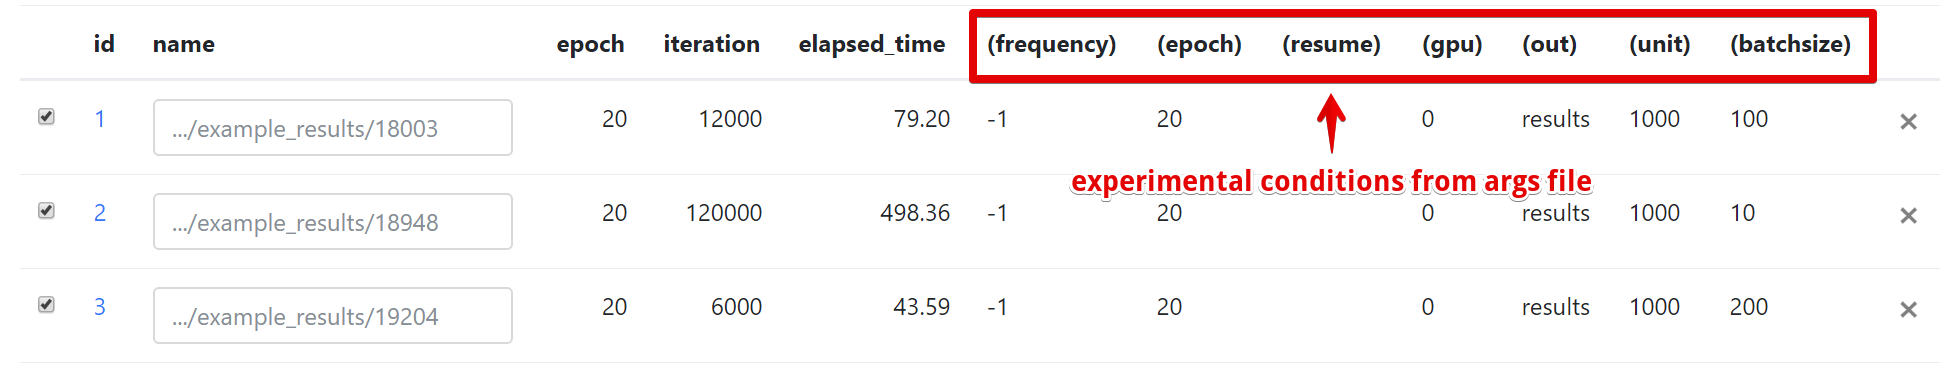
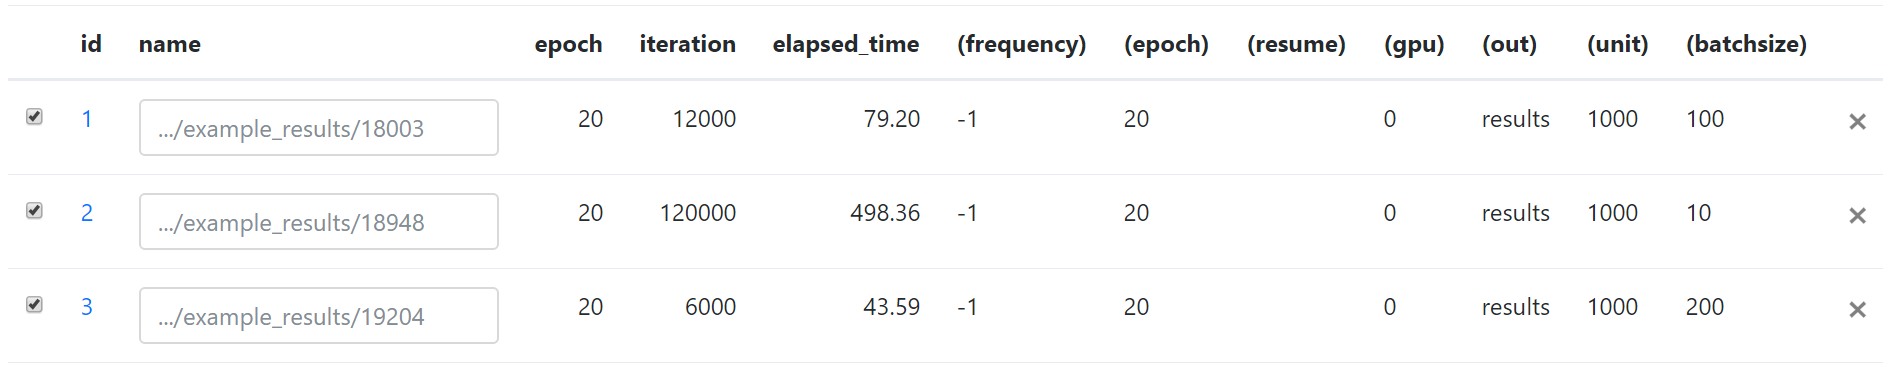
modify trainer example

diff --git a/docs/source/getstart.rst b/docs/source/getstart.rst
@@ -74,9 +74,33 @@ ChainerUI basically supports `Trainer module <https://docs.chainer.org/en/stable
 Training log
 ~~~~~~~~~~~~
 
-A JSON file created by `LogReport <https://docs.chainer.org/en/v3/reference/generated/chainer.training.extensions.LogReport.html>`__ extension. ``epoch``, ``iteration`` or ``elapsed_time`` is used as X-axis, and other key-value items are used as Y-axis. ChainerUI monitors ``log`` files continuously and update a chart if the ``log`` file is updated.
+.. image:: ../images/chart_with_y_sample.png
 
-``log`` file and chart example::
+ChainerUI plots training log values read from ``log`` files and shows ``log`` as a training job. ``log`` file is a JSON file created by `LogReport <https://docs.chainer.org/en/v3/reference/generated/chainer.training.extensions.LogReport.html>`__ extension, registered automatically created under the project path. If ``log`` files once registered are updated, the chart and results table are also updated continuously.
+
+* ``epoch``, ``iteration`` or ``elapsed_time`` is used as X-axis, selected on ``xAxis`` pane. These parameters are set 
+* The other key-value items are plotted.
+
+Setup example, a brief extract taken from `MNIST example <https://github.com/chainer/chainerui/blob/master/examples/train_mnist.py>`__:
+
+.. code-block:: python
+
+  import chainer.links as L
+  from chainer import training
+  from chainer.training import extensions
+
+  def main():
+      # Classifier reports softmax cross entropy loss and accuracy at every
+      # iteration
+      # [ChainerUI] plot loss and accuracy reported by this link
+      model = L.Classifier(MLP(args.unit, 10))
+
+      trainer = training.Trainer(updater, (args.epoch, 'epoch'), out=args.out)
+
+      # [ChainerUI] read 'log' file for plotting values
+      trainer.extend(extensions.LogReport())
+
+created ``log`` file example::
 
   [
       {
@@ -100,14 +124,14 @@ A JSON file created by `LogReport <https://docs.chainer.org/en/v3/reference/gene
       ...
   ]
 
-.. image:: ../images/chart_with_y_sample.png
-
 Experimental conditions
 ~~~~~~~~~~~~~~~~~~~~~~~
 
-A JSON file, which includes key-value pairs you want to see on ChainerUI along with logs. See :ref:`save_args <module_save_args>`, util function to dump command line arguments or dictionary to ``args`` file.
+.. image:: ../images/result_table_condition_sample.png
 
-Setup example:
+ChainerUI shows training job with experimental conditions read from ``args`` file. ``args`` file is a JSON file, which includes key-value pairs. See :ref:`save_args <module_save_args>`, util function to dump command line arguments or dictionary to ``args`` file.
+
+Setup example, a brief extract taken from `MNIST example <https://github.com/chainer/chainerui/blob/master/examples/train_mnist.py>`__:
 
 .. code-block:: python
 
@@ -122,7 +146,7 @@ Setup example:
       # [ChainerUI] save 'args' to show experimental conditions
       save_args(args, args.out)
 
-``args`` file and table example::
+``args`` file example, values are showed as experimental conditions on a results table::
 
   {
       "resume": "",
@@ -134,16 +158,24 @@ Setup example:
       "out": "results"
   }
 
-.. image:: ../images/result_table_condition_sample.png
-
 Operate training loop
 ~~~~~~~~~~~~~~~~~~~~~
 
-A JSON file, which is automatically created by :ref:`CommandsExtension <module_command_extension>`, used for ChainerUI server to communicate to operate the target training loop.
+.. image:: ../images/detail_page_operation_block.png
 
-Setup example:
+ChainerUI support to operate a training loop with :ref:`CommandsExtension <module_command_extension>`, the latest version supports:
+
+* take a snapshot
+* adjust hyperparameters of an optimizer
+
+Operation buttons are in :ref:`detail page <ui_detail_page>`.
+
+Setup example, a brief extract taken from `MNIST example <https://github.com/chainer/chainerui/blob/master/examples/train_mnist.py>`__:
 
 .. code-block:: python
+
+  from chainer import training
+  from chainer.training import extensions
 
   # [ChainerUI] import CommandsExtension
   from chainerui.extensions import CommandsExtension
@@ -151,10 +183,7 @@ Setup example:
   def main():
       trainer = training.Trainer(updater, (args.epoch, 'epoch'), out=args.out)
 
+      # [ChainerUI] Observe learning rate
+      trainer.extend(extensions.observe_lr())
       # [ChainerUI] enable to send commands from ChainerUI
       trainer.extend(CommandsExtension())
-
-
-Operation buttons are in :ref:`detail page <ui_detail_page>`, command view example:
-
-.. image:: ../images/detail_page_operation_block.png
